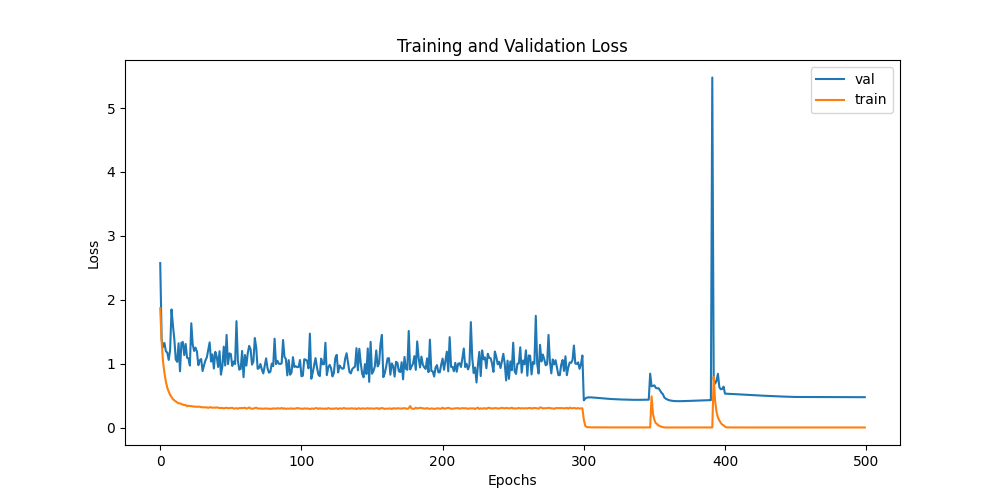
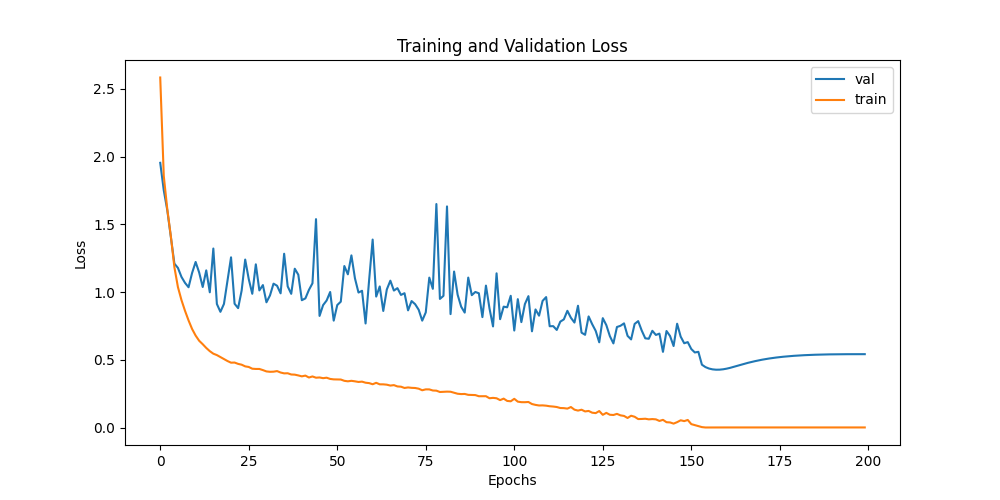
Try ResNet 50

diff --git a/HW5/HW5.py b/HW5/HW5.py
@@ -70,7 +70,7 @@ best_acc = 0  # best test accuracy
 start_epoch = 0  # start from epoch 0 or last checkpoint epoch
 
 print ('================ Build Model =================')
-net = ResNet18()
+net = ResNet50()
 net = net.to(device)
 
 if device == 'cuda':
@@ -89,8 +89,8 @@ if args.resume:
 criterion = nn.CrossEntropyLoss()
 optimizer = optim.SGD(net.parameters(), lr=args.lr,
                       momentum=0.9, weight_decay=5e-4)
-# scheduler = torch.optim.lr_scheduler.CosineAnnealingLR(optimizer, T_max=300)
-scheduler = torch.optim.lr_scheduler.MultiStepLR(optimizer, milestones=[300,400,450], gamma=0.1, last_epoch=-1)
+scheduler = torch.optim.lr_scheduler.CosineAnnealingLR(optimizer, T_max=200)
+# scheduler = torch.optim.lr_scheduler.MultiStepLR(optimizer, milestones=[300,400,450], gamma=0.1, last_epoch=-1)
 
 # Training
 def train(epoch):
@@ -161,6 +161,7 @@ def valid(epoch):
 # Testing
 def test():
     global best_acc
+    net.load_state_dict(torch.load('./checkpoint/ckpt.pth'))
     net.eval()
     test_loss = 0
     correct = 0
@@ -182,21 +183,22 @@ def test():
 
 hist_train = []
 hist_val = []
-for epoch in range(start_epoch, start_epoch+500):
+for epoch in range(start_epoch, start_epoch+200):
     hist_train = train(epoch)
     hist_val = valid(epoch)
     test()
     scheduler.step()
+    
+    # Plot loss chart
+    plt.figure(figsize=(10,5))
+    plt.title("Training and Validation Loss")
+    plt.plot(hist_val,label="val")
+    plt.plot(hist_train,label="train")
+    plt.xlabel("Epochs")
+    plt.ylabel("Loss")
+    plt.legend()
+    plt.savefig("Loss Chart.png")
 
-# Plot loss chart
-plt.figure(figsize=(10,5))
-plt.title("Training and Validation Loss")
-plt.plot(hist_val,label="val")
-plt.plot(hist_train,label="train")
-plt.xlabel("Epochs")
-plt.ylabel("Loss")
-plt.legend()
-plt.savefig("Loss Chart.png")
 
 
 
